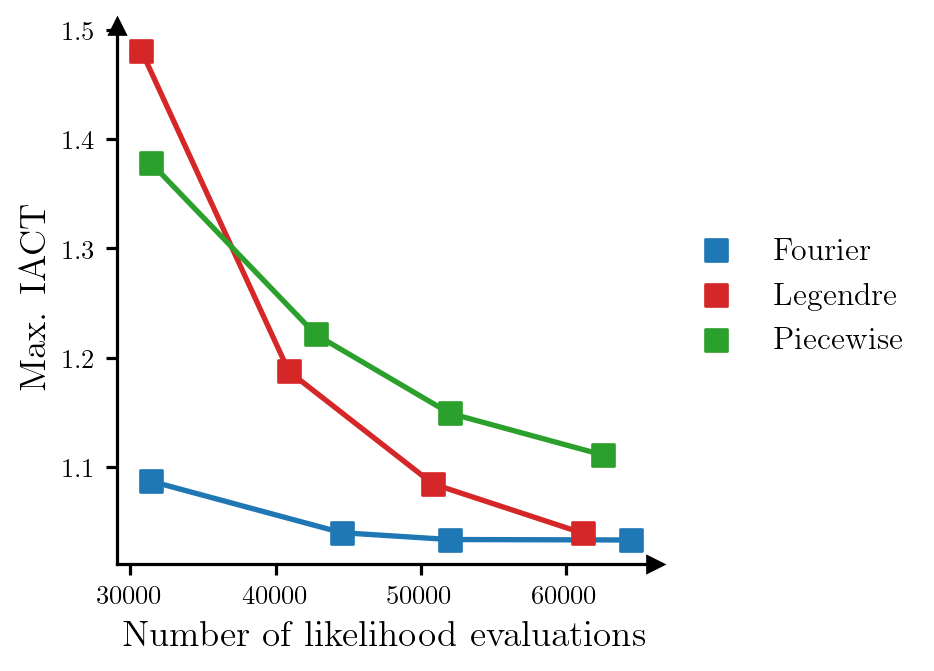
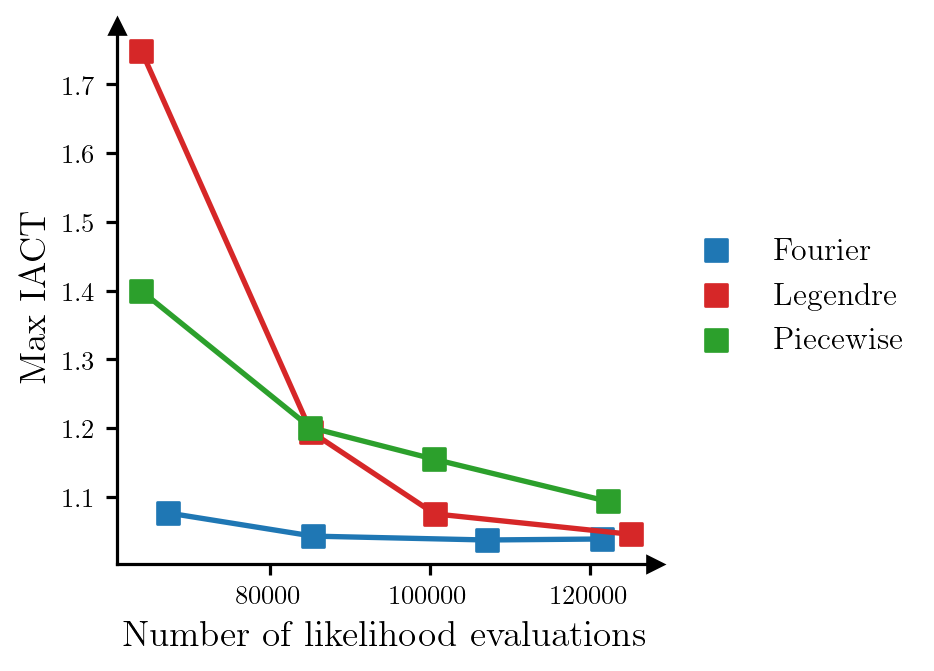
Fix potentials bug in independence sampler

diff --git a/examples/shock/example.py b/examples/shock/example.py
@@ -39,7 +39,7 @@ censored = torch.tensor([
 
 # Generate covariates
 D = 2
-xs = torch.randn((failure_dists.numel(), D)) / D
+xs = torch.randn((failure_dists.numel(), D))
 
 # Define prior coefficients
 alpha = 6.8757
@@ -72,7 +72,7 @@ def negloglik(params: torch.Tensor) -> torch.Tensor:
         (failure_dists[censored] / t1s[:, censored]) ** t2s
     ).sum(dim=1)
     
-    neglogliks = neglogliks - 144.0  # Numerical stability
+    neglogliks -= 120.0  # To avoid underflow
     return neglogliks
 
 
@@ -104,7 +104,7 @@ preconditioner = construct_preconditioner(
 )
 # preconditioner = dt.UniformMapping(bounds)
 
-bases = dt.Lagrange1(num_elems=20)
+bases = dt.Lagrange1(num_elems=30)
 bridge = dt.SingleLayer()
 tt_options = dt.TTOptions(verbose=2, max_als=2, init_rank=10, max_rank=14)
 
@@ -125,11 +125,29 @@ samples_dirt, potentials_dirt = dirt.eval_irt(rs)
 
 # Run an independence MCMC sampler
 potentials_true = negloglik(samples_dirt) + neglogpri(samples_dirt)
+print(negloglik(samples_dirt))
+print(neglogpri(samples_dirt))
+print(potentials_true)
 res = dt.run_independence_sampler(samples_dirt, potentials_dirt, potentials_true)
 
 print(f"Acceptance rate: {res.acceptance_rate:.2f}")
 print(f"Mean IACT: {res.iacts.mean():.2f}")
 print(f"Max IACT: {res.iacts.max():.2f}")
+
+# Generate trace plot
+parameters = torch.hstack((res.potentials[:, None], res.xs[:, [0, 3]]))
+ylabels = [r"$-\log(f(x))$", r"$\beta_{2}$", r"$\theta_{2}$"]
+
+fig, axes = plt.subplots(1, 3, figsize=(7.5, 3))
+
+for i, ax in enumerate(axes):
+    ax.plot(parameters[:, i], c="tab:red", lw=0.5)
+    ax.set_ylabel(ylabels[i])
+    ax.set_box_aspect(1)
+    add_arrows(ax)
+
+axes[1].set_xlabel("Iteration")
+plt.show()
 
 # Thin the chain
 samples_post = res.xs[::5, :]
@@ -159,9 +177,9 @@ bases_dict = {
 }
 
 args_dict = {
-    "Fourier": [7, 10, 12, 15],
-    "Legendre": [15, 20, 25, 30],
-    "Piecewise": [15, 20, 25, 30],
+    "Fourier": [15, 20, 25, 30],
+    "Legendre": [30, 40, 50, 60],
+    "Piecewise": [30, 40, 50, 60],
 }
 
 colours = {

diff --git a/deep_tensor/polynomials/spectral/spectral_cdf.py b/deep_tensor/polynomials/spectral/spectral_cdf.py
@@ -163,6 +163,7 @@ class SpectralCDF(CDF1D, abc.ABC):
         self,
         coefs: Tensor, 
         cdf_poly_base: Tensor, 
+        cdf_poly_norm,
         zs_unnorm: Tensor,
         l0s: Tensor,
         l1s: Tensor
@@ -177,7 +178,7 @@ class SpectralCDF(CDF1D, abc.ABC):
         for _ in range(self.num_newton):  
             zs, dzs = self.eval_int_newton(coefs, cdf_poly_base, zs_unnorm, ls)
             ls, dls = self._newton_step(ls, zs, dzs, l0s, l1s)
-            if self.converged(zs, dls):
+            if self.converged(zs / cdf_poly_norm, dls / cdf_poly_norm):
                 return ls
         
         # self.print_unconverged(zs, dls, "Newton's method")
@@ -232,5 +233,5 @@ class SpectralCDF(CDF1D, abc.ABC):
         l0s = self.sampling_nodes[left_inds]
         l1s = self.sampling_nodes[left_inds+1]
         
-        ls = self.newton(coefs, cdf_poly_base, zs_cdf, l0s, l1s)
+        ls = self.newton(coefs, cdf_poly_base, cdf_poly_norm, zs_cdf, l0s, l1s)
         return ls

diff --git a/deep_tensor/debiasing/mcmc.py b/deep_tensor/debiasing/mcmc.py
@@ -305,17 +305,19 @@ def run_independence_sampler(
     """
 
     n, d = xs.shape
-    potentials = neglogfxs_exact - neglogfxs_irt
     
     chain = MarkovChain(n, d)
-    chain.add_new_state(xs[0], potentials[0])
+    chain.add_new_state(xs[0], neglogfxs_exact[0])
+    i_cur = 0
 
     for i in range(n-1):
-        
-        alpha = chain.current_potential - potentials[i+1]
+
+        alpha = (neglogfxs_exact[i_cur] + neglogfxs_irt[i+1]
+                 - neglogfxs_exact[i+1] - neglogfxs_irt[i_cur])
         
         if alpha.exp() > torch.rand(1):
-            chain.add_new_state(xs[i+1], potentials[i+1])
+            chain.add_new_state(xs[i+1], neglogfxs_exact[i+1])
+            i_cur = i+1
         else:
             chain.add_current_state()
     
